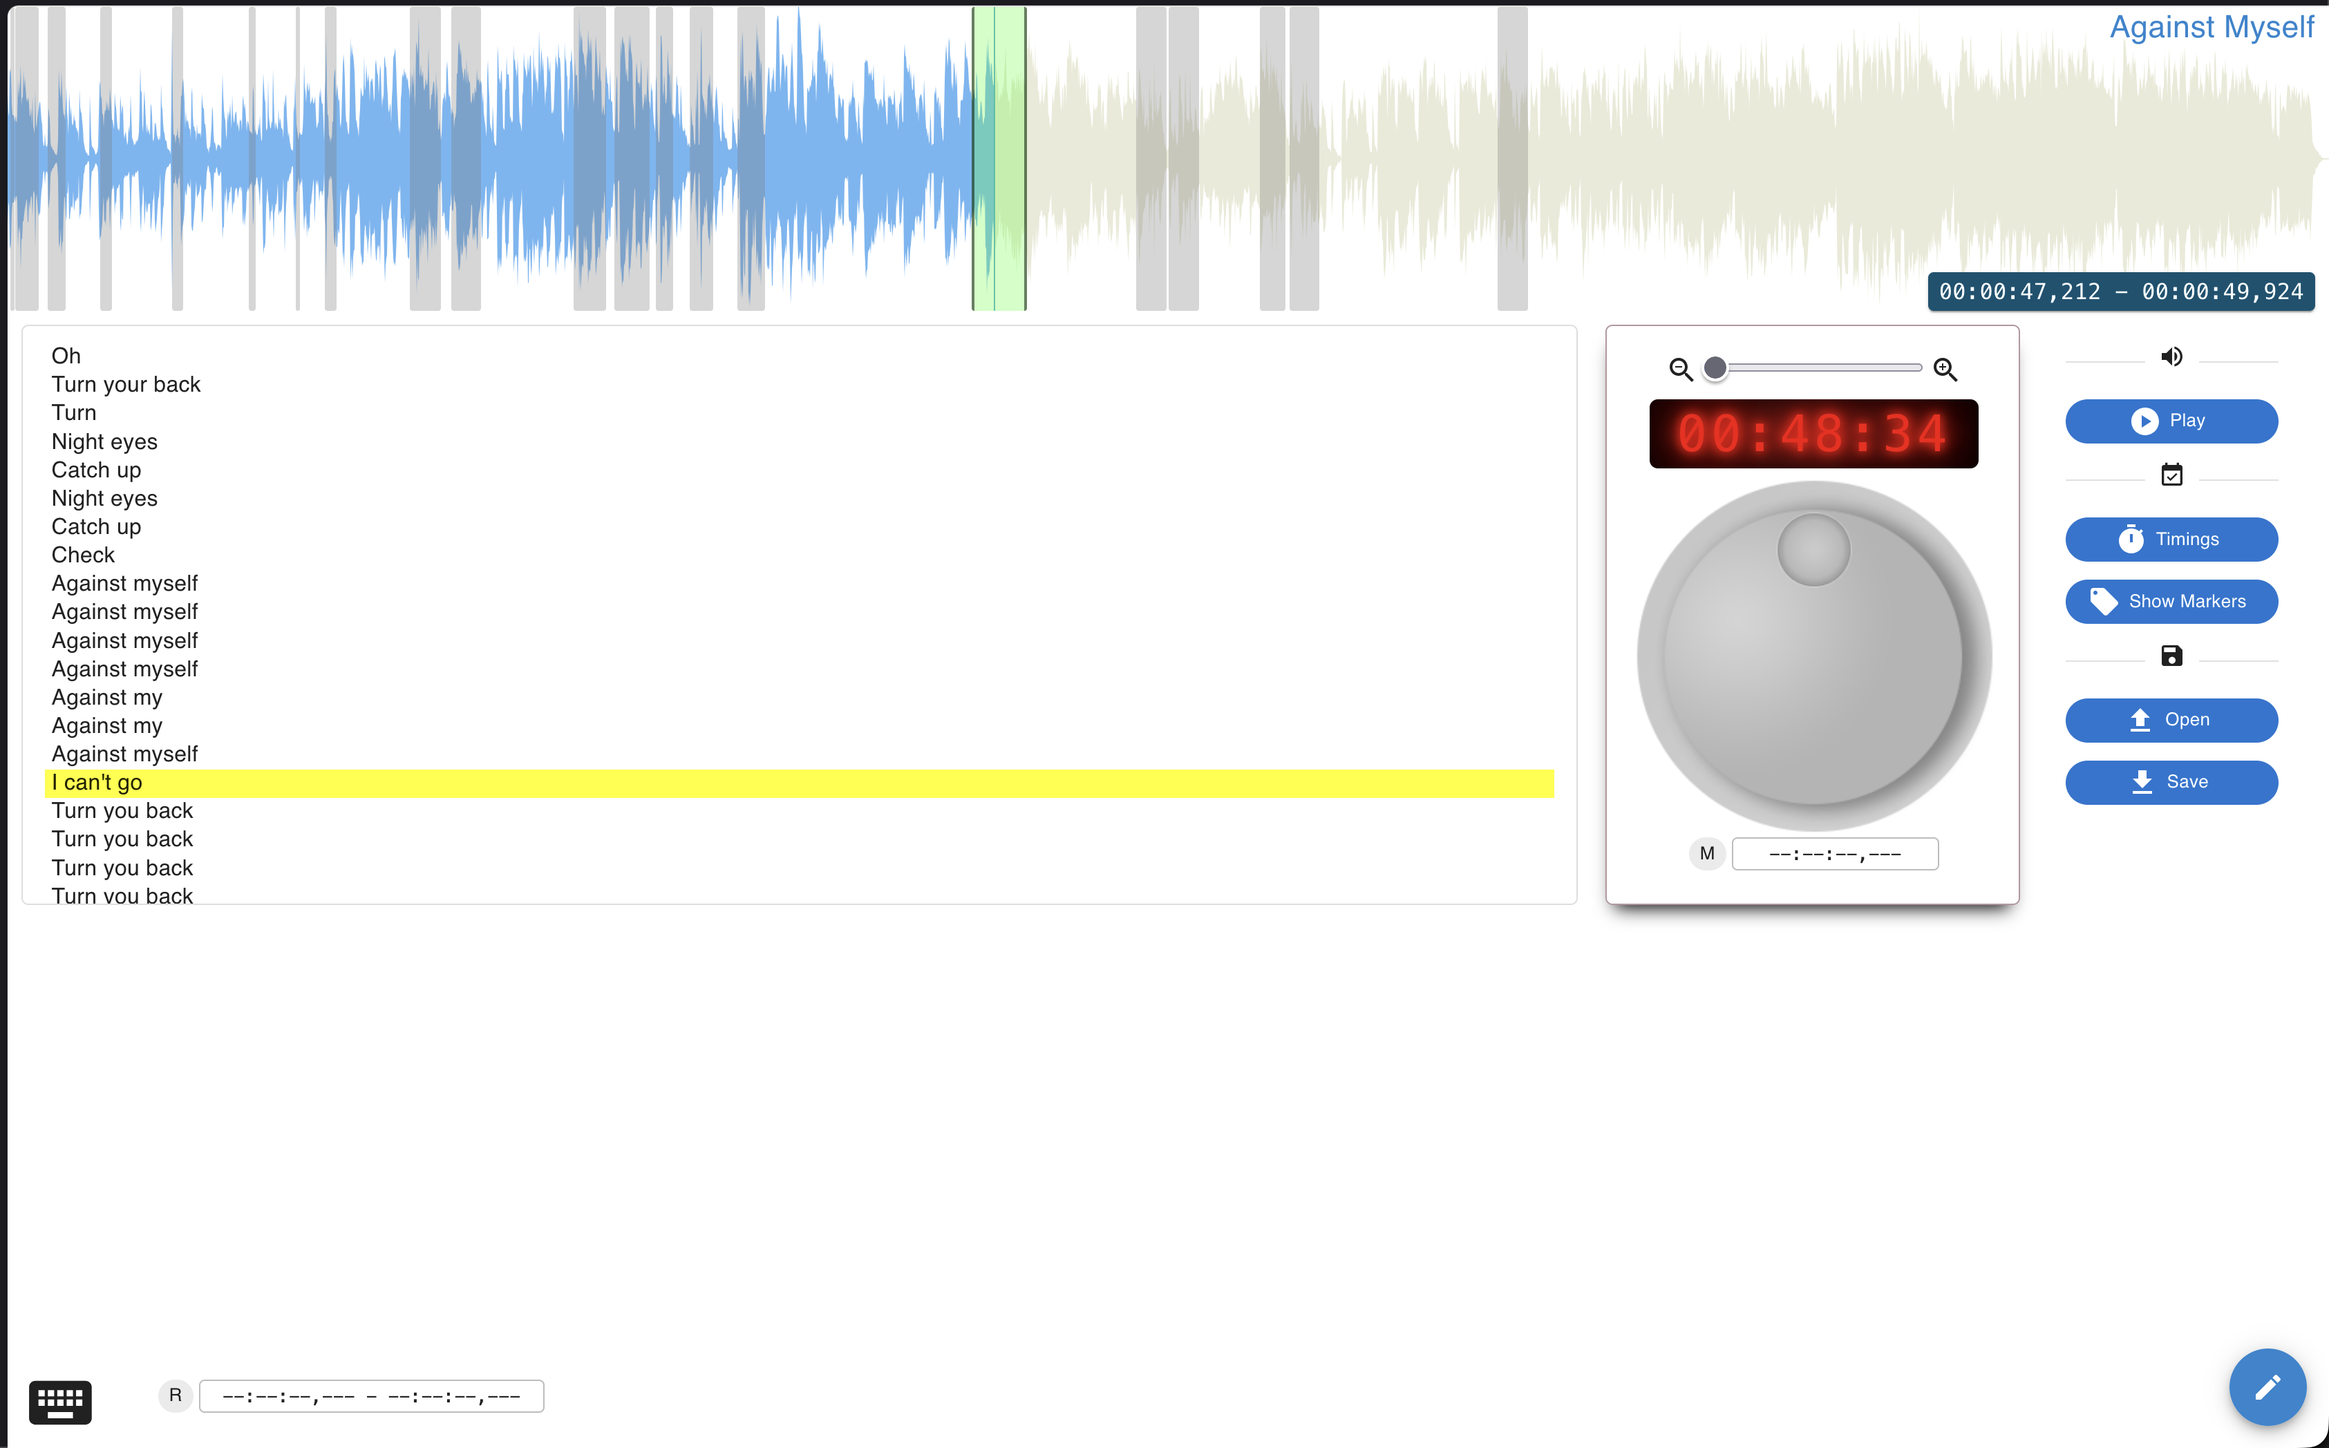
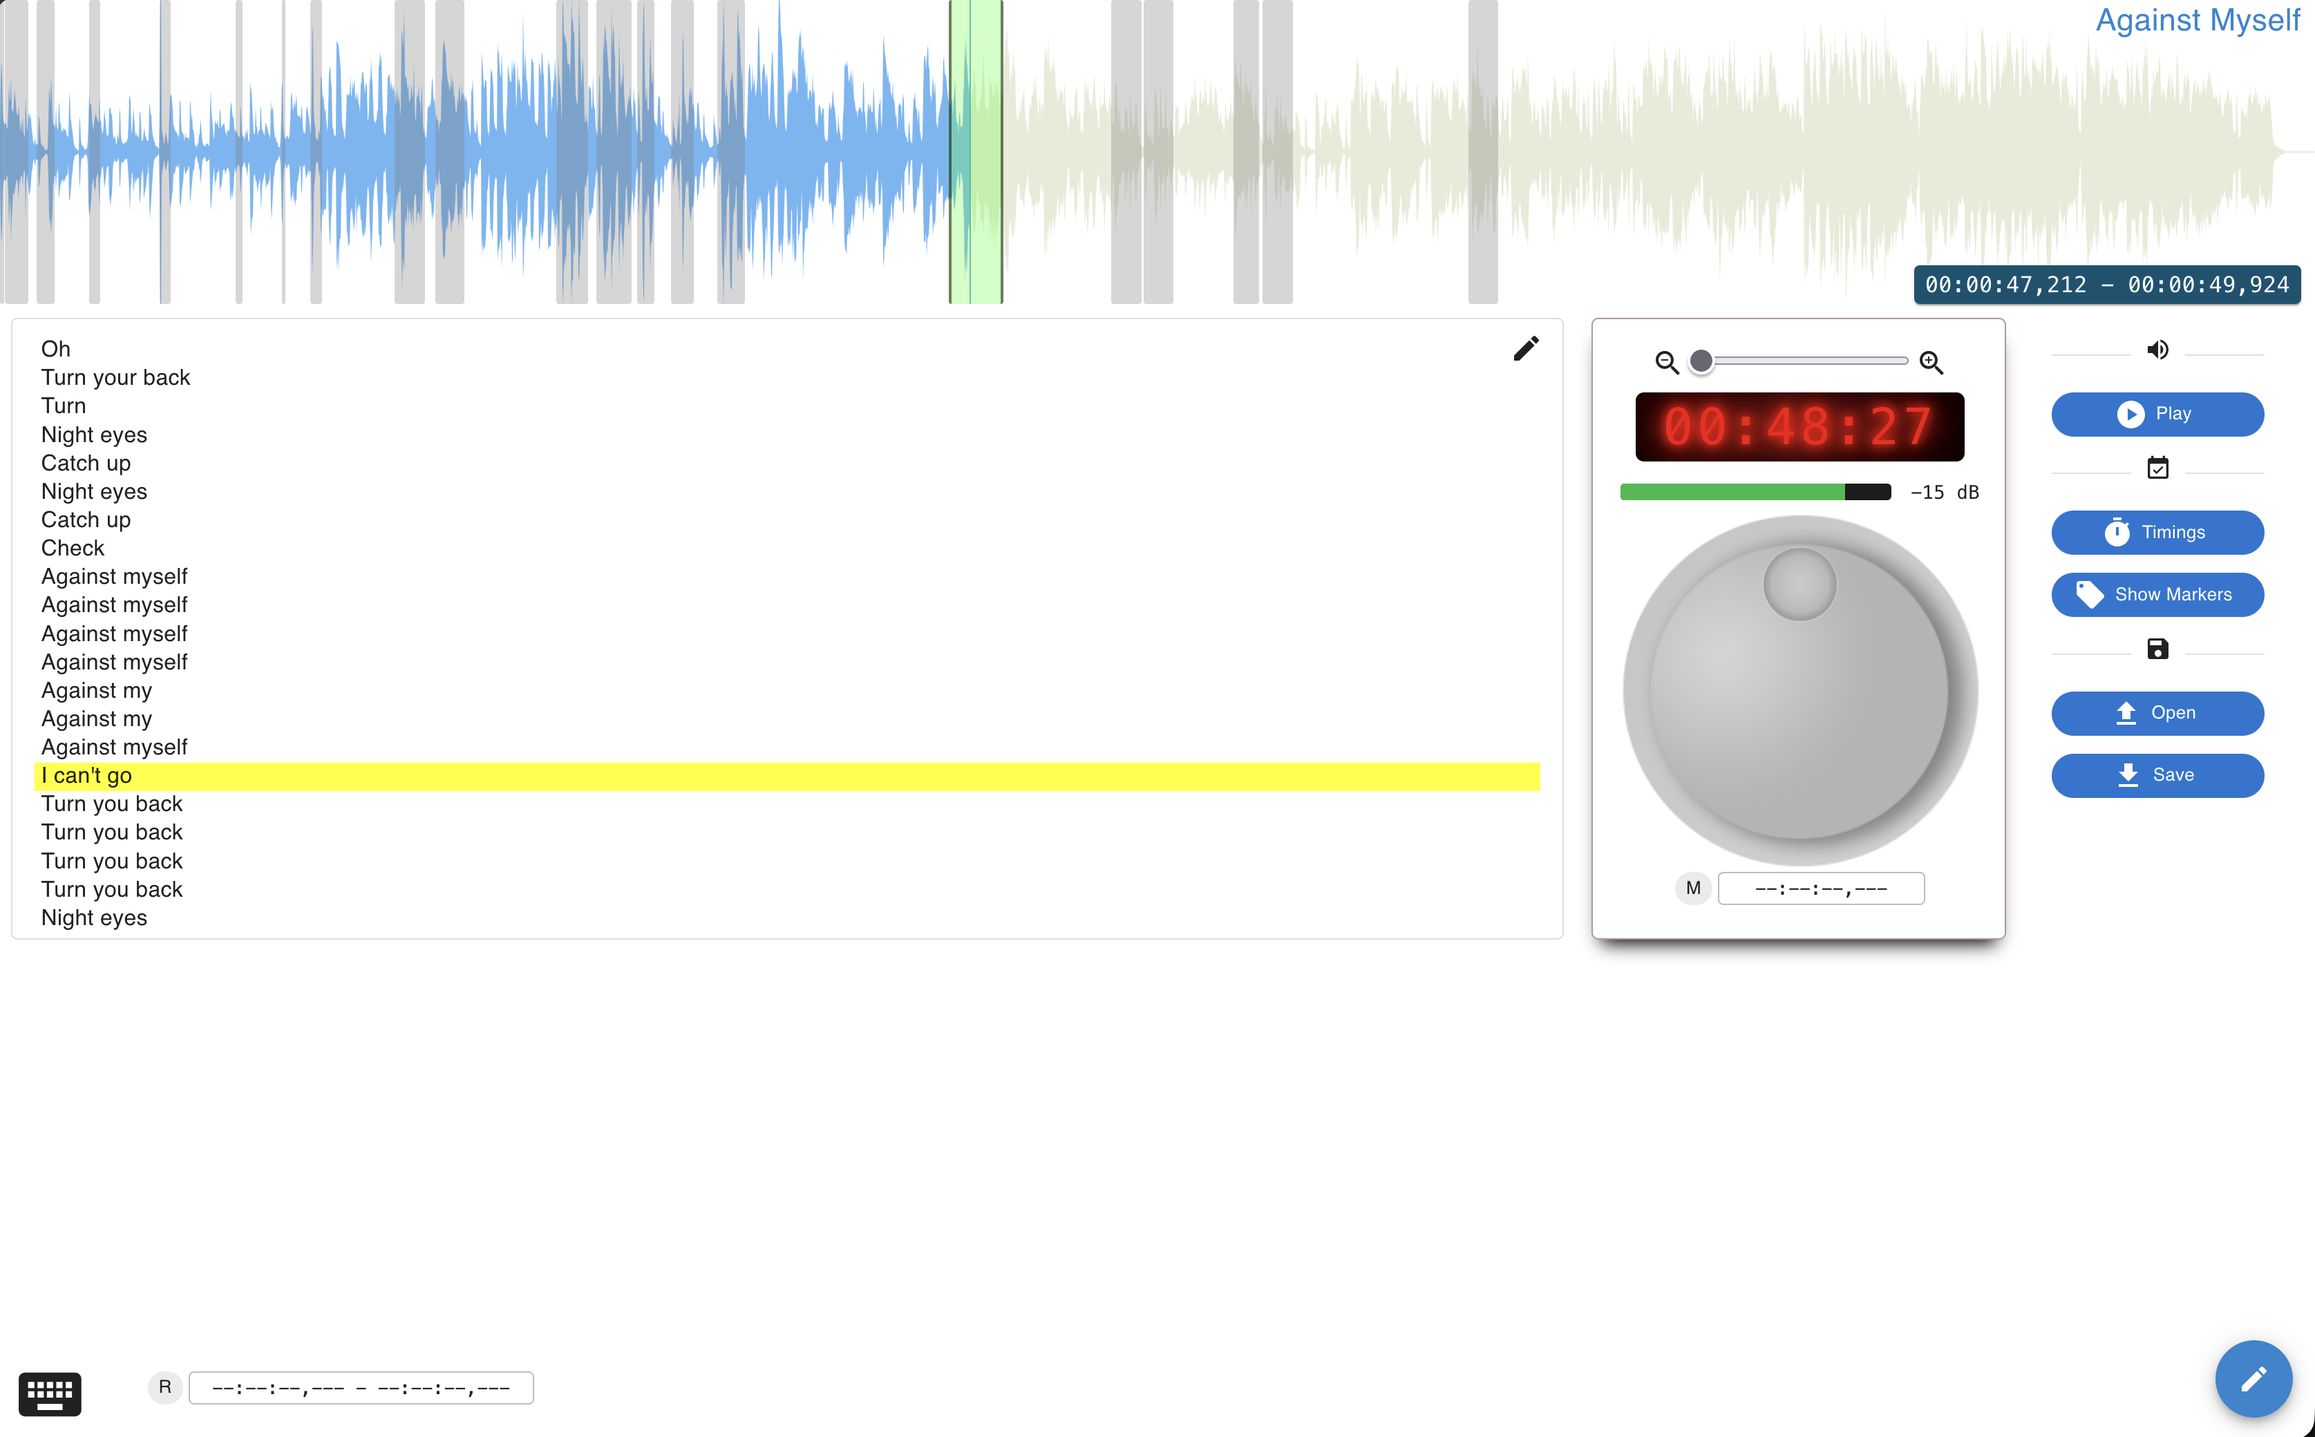
player_editor: a level meter under the timer shows the loudness at the playback position (v2.3.0)
The meter from vox_noise_gate: a bar on a -90..0 dB scale and the value,
RMS over 10 ms measured every millisecond, the loudest channel winning.
It follows playback, the jog dial and the arrow keys. The gate's threshold
mark and LED are left out; they have no meaning here.

Every track was already decoded to an AudioBuffer before WaveSurfer got
it, so the levels come from that buffer (about 10 ms for a 2-minute stereo
track) into a levelAnalysis atom. A track opened meanwhile wins, so a
quick switch cannot leave the previous track's levels on the meter.

src/levels.js is the analysis without the gate's detector high-pass, with
tests. The meter gets its own row: the transport, the lyrics panel and the
editor area go from 420 to 450 px, their bottoms still aligned. README and
its screenshot show the meter; the zoom paragraph now says the step goes
down to 10 ms, the floor added in v2.2.3.

diff --git a/player_editor/src/Waveform.js b/player_editor/src/Waveform.js
@@ -9,6 +9,7 @@ import { AnomaliesIcon } from "./AnomaliesIcon";
 import { RegionCard } from "./RegionCard";
 import { zoomLevel } from "./ZoomInput";
 
+import { analyzeLevels } from "./levels";
 import { toMarkers } from "./utils";
 import { newRegionRange } from "./actions/change_region_range";
 import { showRegionAtTime } from "./actions/show_region_at_time";
@@ -34,9 +35,30 @@ class AudioEngine {
   constructor() {
     this.currentBlobUrl = null;
     this.audioContext = new (window.AudioContext || window.webkitAudioContext)();
+    this.opened = 0;
+    this.levelsListener = () => {};
   }
 
   canUse = () => waveSurfer !== undefined;
+
+  onLevels = (listener) => {
+    this.levelsListener = listener;
+  };
+
+  _startOpening = () => {
+    this.levelsListener(null);
+    return ++this.opened;
+  };
+
+  // levels for the meter, unless another track was opened meanwhile
+  _measure = (audioBuffer, id) => {
+    const channels = Array.from({ length: audioBuffer.numberOfChannels }, (_, i) =>
+      audioBuffer.getChannelData(i)
+    );
+    const levels = analyzeLevels(channels, audioBuffer.sampleRate);
+
+    if (id === this.opened) this.levelsListener(levels);
+  };
 
   // Convert AudioBuffer to WAV Blob URL for in-memory playback
   _audioBufferToBlob = (audioBuffer) => {
@@ -90,9 +112,11 @@ class AudioEngine {
   open = async (track) => {
     if (!waveSurfer) return null;
     if (track.file) {
+      const id = this._startOpening();
       try {
         const arrayBuffer = await track.file.arrayBuffer();
         const audioBuffer = await this.audioContext.decodeAudioData(arrayBuffer);
+        this._measure(audioBuffer, id);
         const blobUrl = this._audioBufferToBlob(audioBuffer);
         if (this.currentBlobUrl) {
           URL.revokeObjectURL(this.currentBlobUrl);
@@ -110,6 +134,7 @@ class AudioEngine {
   load = async (track) => {
     if (!waveSurfer) return null;
     if (track.url) {
+      const id = this._startOpening();
       // Fetch, decode to AudioBuffer, and convert to WAV Blob for in-memory playback
       try {
         const response = await fetch(track.url);
@@ -117,6 +142,7 @@ class AudioEngine {
 
         // Decode to AudioBuffer
         const audioBuffer = await this.audioContext.decodeAudioData(arrayBuffer);
+        this._measure(audioBuffer, id);
 
         // Convert to WAV Blob URL
         const blobUrl = this._audioBufferToBlob(audioBuffer);
@@ -394,6 +420,8 @@ export const audioState = atom("stopped");
 
 export const audioPosition = atom(0);
 
+export const levelAnalysis = atom(null); // { levels, hopSeconds } of the track
+
 // Due to delay between region click event and current playback position (time) to be updated we must defer split operation
 let pendingRegionToSplit = null;
 
@@ -405,6 +433,7 @@ export function Waveform({ track }) {
   const [playingState, changePlayingState] = useAtom(audioState);
   const [position, changePlaybackPosition] = useAtom(audioPosition);
   const labelsVisible = useAtomValue(visibleMarkers);
+  const setLevels = useSetAtom(levelAnalysis);
 
   const displayMarkers = useAtomCallback(
     useCallback(
@@ -535,6 +564,10 @@ export function Waveform({ track }) {
       waveSurfer.setOptions({ minPxPerSec: zoom });
     }
   }, [zoom]);
+
+  useEffect(() => {
+    engine.onLevels(setLevels);
+  }, [engine, setLevels]);
 
   useEffect(() => {
     if (track) {

diff --git a/player_editor/src/levels.js b/player_editor/src/levels.js
@@ -1,0 +1,75 @@
+// Loudness along a track, for the level meter: RMS over 10 ms, measured
+// every millisecond, the loudest channel winning. Levels are in dBFS.
+// Same measure as vox_noise_gate's gate, without its detector high-pass.
+
+export const HOP_MS = 1;
+export const WINDOW_MS = 10;
+export const LEVEL_FLOOR = -120; // level of digital silence
+export const METER_FLOOR = -90; // left end of the meter
+
+// Mean square of each hop, the loudest channel winning
+function hopPowers(channels, hop) {
+  const length = channels[0].length;
+  const power = new Float64Array(Math.ceil(length / hop));
+
+  for (const data of channels) {
+    for (let h = 0; h < power.length; h++) {
+      const a = h * hop;
+      const b = Math.min(length, a + hop);
+      let sum = 0;
+
+      for (let i = a; i < b; i++) sum += data[i] * data[i];
+
+      const ms = sum / (b - a);
+
+      if (ms > power[h]) power[h] = ms;
+    }
+  }
+
+  return power;
+}
+
+// -> { levels: Float32Array (dBFS per hop), hopSeconds }
+export function analyzeLevels(channels, sampleRate) {
+  const hop = Math.max(1, Math.round((sampleRate * HOP_MS) / 1000));
+  const power = hopPowers(channels, hop);
+
+  const hops = power.length;
+  const window = Math.max(1, Math.round(WINDOW_MS / HOP_MS));
+  const before = Math.floor(window / 2);
+  const after = window - before;
+
+  const levels = new Float32Array(hops);
+
+  // centred moving average, so the levels are not shifted in time
+  let sum = 0;
+  let from = 0;
+  let to = 0;
+
+  for (let h = 0; h < hops; h++) {
+    const a = Math.max(0, h - before);
+    const b = Math.min(hops, h + after);
+
+    while (to < b) sum += power[to++];
+    while (from < a) sum -= power[from++];
+
+    const ms = Math.max(0, sum / (b - a));
+
+    levels[h] = ms > 1e-12 ? Math.max(LEVEL_FLOOR, 10 * Math.log10(ms)) : LEVEL_FLOOR;
+  }
+
+  return { levels, hopSeconds: hop / sampleRate };
+}
+
+export function levelAt(analysis, time) {
+  if (!analysis) return LEVEL_FLOOR;
+
+  const { levels, hopSeconds } = analysis;
+  const i = Math.floor(time / hopSeconds);
+
+  return levels[Math.max(0, Math.min(levels.length - 1, i))] ?? LEVEL_FLOOR;
+}
+
+// dB level mapped linearly onto the meter: quiet passages stay visible
+export const levelToWidth = (db) =>
+  Math.max(0, Math.min(1, (db - METER_FLOOR) / -METER_FLOOR));

diff --git a/player_editor/src/levels.test.js b/player_editor/src/levels.test.js
@@ -1,0 +1,58 @@
+import { describe, expect, it } from "vitest";
+
+import { LEVEL_FLOOR, analyzeLevels, levelAt, levelToWidth } from "./levels";
+
+const SR = 44100;
+
+const signal = (seconds, f) =>
+  Float32Array.from({ length: Math.round(seconds * SR) }, (_, i) => f(i / SR));
+
+describe("analyzeLevels", () => {
+  it("measures a full-scale sine at -3 dB", () => {
+    const sine = signal(0.5, (t) => Math.sin(2 * Math.PI * 1000 * t));
+    const analysis = analyzeLevels([sine], SR);
+
+    expect(levelAt(analysis, 0.25)).toBeCloseTo(-3.01, 1);
+  });
+
+  it("gives the floor for digital silence", () => {
+    const analysis = analyzeLevels([new Float32Array(SR)], SR);
+
+    expect(levelAt(analysis, 0.5)).toBe(LEVEL_FLOOR);
+  });
+
+  it("takes the loudest channel", () => {
+    const analysis = analyzeLevels([new Float32Array(SR), new Float32Array(SR).fill(0.5)], SR);
+
+    expect(levelAt(analysis, 0.5)).toBeCloseTo(-6.02, 1);
+  });
+
+  it("follows the track in time", () => {
+    const track = signal(1, (t) => (t < 0.5 ? 0 : 0.1));
+    const analysis = analyzeLevels([track], SR);
+
+    expect(levelAt(analysis, 0.25)).toBe(LEVEL_FLOOR);
+    expect(levelAt(analysis, 0.75)).toBeCloseTo(-20, 1);
+    expect(levelAt(analysis, 0.5)).toBeGreaterThan(-30); // centred window
+  });
+});
+
+describe("levelAt", () => {
+  it("is the floor before a track is analyzed, and clamps to the track", () => {
+    const analysis = analyzeLevels([new Float32Array(SR).fill(0.1)], SR);
+
+    expect(levelAt(null, 1)).toBe(LEVEL_FLOOR);
+    expect(levelAt(analysis, 5)).toBeCloseTo(-20, 1);
+    expect(levelAt(analysis, -1)).toBeCloseTo(-20, 1);
+  });
+});
+
+describe("levelToWidth", () => {
+  it("maps -90..0 dB onto the meter", () => {
+    expect(levelToWidth(0)).toBe(1);
+    expect(levelToWidth(-45)).toBe(0.5);
+    expect(levelToWidth(-90)).toBe(0);
+    expect(levelToWidth(LEVEL_FLOOR)).toBe(0);
+    expect(levelToWidth(3)).toBe(1);
+  });
+});

diff --git a/player_editor/src/App.css b/player_editor/src/App.css
@@ -124,7 +124,7 @@ body {
 .editor-content {
   display: grid;
   grid-template-columns: auto 340px 180px;
-  height: 420px;
+  height: 450px;
   width: 98%;
   margin-left: 10px;
 }
@@ -150,7 +150,7 @@ body {
   text-align: left;
   max-height: 550px;
   min-height: 300px;
-  height: 420px;
+  height: 450px;
   overflow: auto;
 }
 
@@ -161,9 +161,9 @@ body {
 .transport {
   display: grid;
   justify-items: center;
-  grid-template-rows: 20px 70px auto 30px;
+  grid-template-rows: 20px 70px 30px auto 30px;
   width: 300px;
-  height: 420px;
+  height: 450px;
   margin-left: 20px;
   padding: 20px;
   border: #b5989e solid thin;
@@ -171,8 +171,38 @@ body {
   box-shadow: 0px 10px 13px -7px #000000, 5px 5px 15px 5px rgba(0, 0, 0, 0);
 }
 
+.level-meter {
+  display: grid;
+  grid-template-columns: 1fr 56px;
+  align-items: center;
+  gap: 8px;
+  width: 100%;
+}
+
+.meter-bar {
+  position: relative;
+  height: 12px;
+  background: #1b1c1d;
+  border-radius: 3px;
+  overflow: hidden;
+}
+
+.meter-fill {
+  position: absolute;
+  left: 0;
+  top: 0;
+  bottom: 0;
+  background: #21ba45;
+}
+
+.meter-value {
+  font-family: monospace;
+  font-size: 0.85em;
+  text-align: right;
+}
+
 textarea {
-  height: 420px;
+  height: 450px;
 }
 
 .lyrics-input:hover .edit-button {
@@ -229,7 +259,7 @@ textarea {
 
 .lyrics-textarea {
   width: 100%;
-  height: 420px;
+  height: 450px;
   padding: 0.7em 1em;
   font: inherit;
   border: 1px solid rgba(34, 36, 38, 0.15);

diff --git a/player_editor/src/LevelMeter.js b/player_editor/src/LevelMeter.js
@@ -1,0 +1,21 @@
+import { useAtomValue } from "jotai";
+
+import { audioPosition, levelAnalysis } from "./Waveform";
+import { LEVEL_FLOOR, levelAt, levelToWidth } from "./levels";
+
+// Loudness at the playback position, on a -90..0 dB scale
+export function LevelMeter() {
+  const position = useAtomValue(audioPosition);
+  const analysis = useAtomValue(levelAnalysis);
+
+  const level = levelAt(analysis, position);
+
+  return (
+    <div className="level-meter" title="Level at the playback position">
+      <div className="meter-bar">
+        <div className="meter-fill" style={{ width: `${levelToWidth(level) * 100}%` }} />
+      </div>
+      <span className="meter-value">{level > LEVEL_FLOOR ? `${level.toFixed(0)} dB` : "-∞ dB"}</span>
+    </div>
+  );
+}

diff --git a/player_editor/src/Editor.js b/player_editor/src/Editor.js
@@ -41,6 +41,7 @@ import { SaveReportBox } from "./SaveReportBox";
 import { ZoomInput } from "./ZoomInput";
 import { TimingsCheck } from "./TimingsCheck";
 import { PositionMemory } from "./PositionMemory";
+import { LevelMeter } from "./LevelMeter";
 
 import "./Editor.css";
 
@@ -200,6 +201,7 @@ export function Editor({ track: selectedTrack, onSidebarToggle, sideVisible }) {
             <div className="transport">
               <ZoomInput />
               <Timer />
+              <LevelMeter />
               <JogDial
                 key="dial"
                 onChange={(_, rotation) => setRotation(rotation)}

diff --git a/player_editor/README.md b/player_editor/README.md
@@ -11,7 +11,7 @@ runs in the browser; no audio is uploaded anywhere.
 The timings produced here are what [player](../player), [gig_anim](../gig_anim)
 and [lyrics-cards](../lyrics-cards) read to display lyrics in sync with a track.
 
-![Editing "Against Myself": gray regions mark the saved verse timings across the waveform, the green region at 00:00:47,212 – 00:00:49,924 is the one being edited, and the lyrics panel highlights the verse under the playhead next to the zoom, timer and jog dial](docs/screenshots/main-view.png)
+![Editing "Against Myself": gray regions mark the saved verse timings across the waveform, the green region at 00:00:47,212 – 00:00:49,924 is the one being edited, and the lyrics panel highlights the verse under the playhead next to the zoom, the timer, the level meter reading -15 dB and the jog dial](docs/screenshots/main-view.png)
 
 ## Quick start
 
@@ -55,10 +55,11 @@ playback head or resize the active region; <kbd>Enter</kbd> commits the change
 (the region turns violet), <kbd>Esc</kbd> reverts it to where it was.
 
 The nudge step follows the zoom level — `(100 - zoom) / 100` seconds, so it is
-roughly a second when fully zoomed out and down to milliseconds as you zoom in.
-Zoom, timecode
-readout, jog dial and position memory sit in the transport strip under the
-lyrics panel.
+roughly a second when fully zoomed out and down to 10 ms as you zoom in.
+Zoom, timecode readout, level meter, jog dial and position memory sit in the
+transport strip under the lyrics panel. The level meter shows how loud the
+track is at the playback position (RMS over 10 ms, on a -90 to 0 dB scale),
+while it plays, and while you move through it with the jog dial or the arrows.
 
 Ways to create a region:
 

diff --git a/player_editor/CLAUDE.md b/player_editor/CLAUDE.md
@@ -32,6 +32,7 @@ The app uses Jotai atoms for global state (provider-less default store; actions 
 - `audioEngine` - WaveSurfer instance wrapper
 - `audioState` - Playback status (playing/paused/stopped)
 - `audioPosition` - Current playback position
+- `levelAnalysis` - The track's level every millisecond (`src/levels.js`, RMS over 10 ms), set by the engine after decoding; read by `LevelMeter` at `audioPosition`
 - `currentSong` - Lyrics data with timings
 - `visibleMarkers` - Toggle for timeline markers
 
